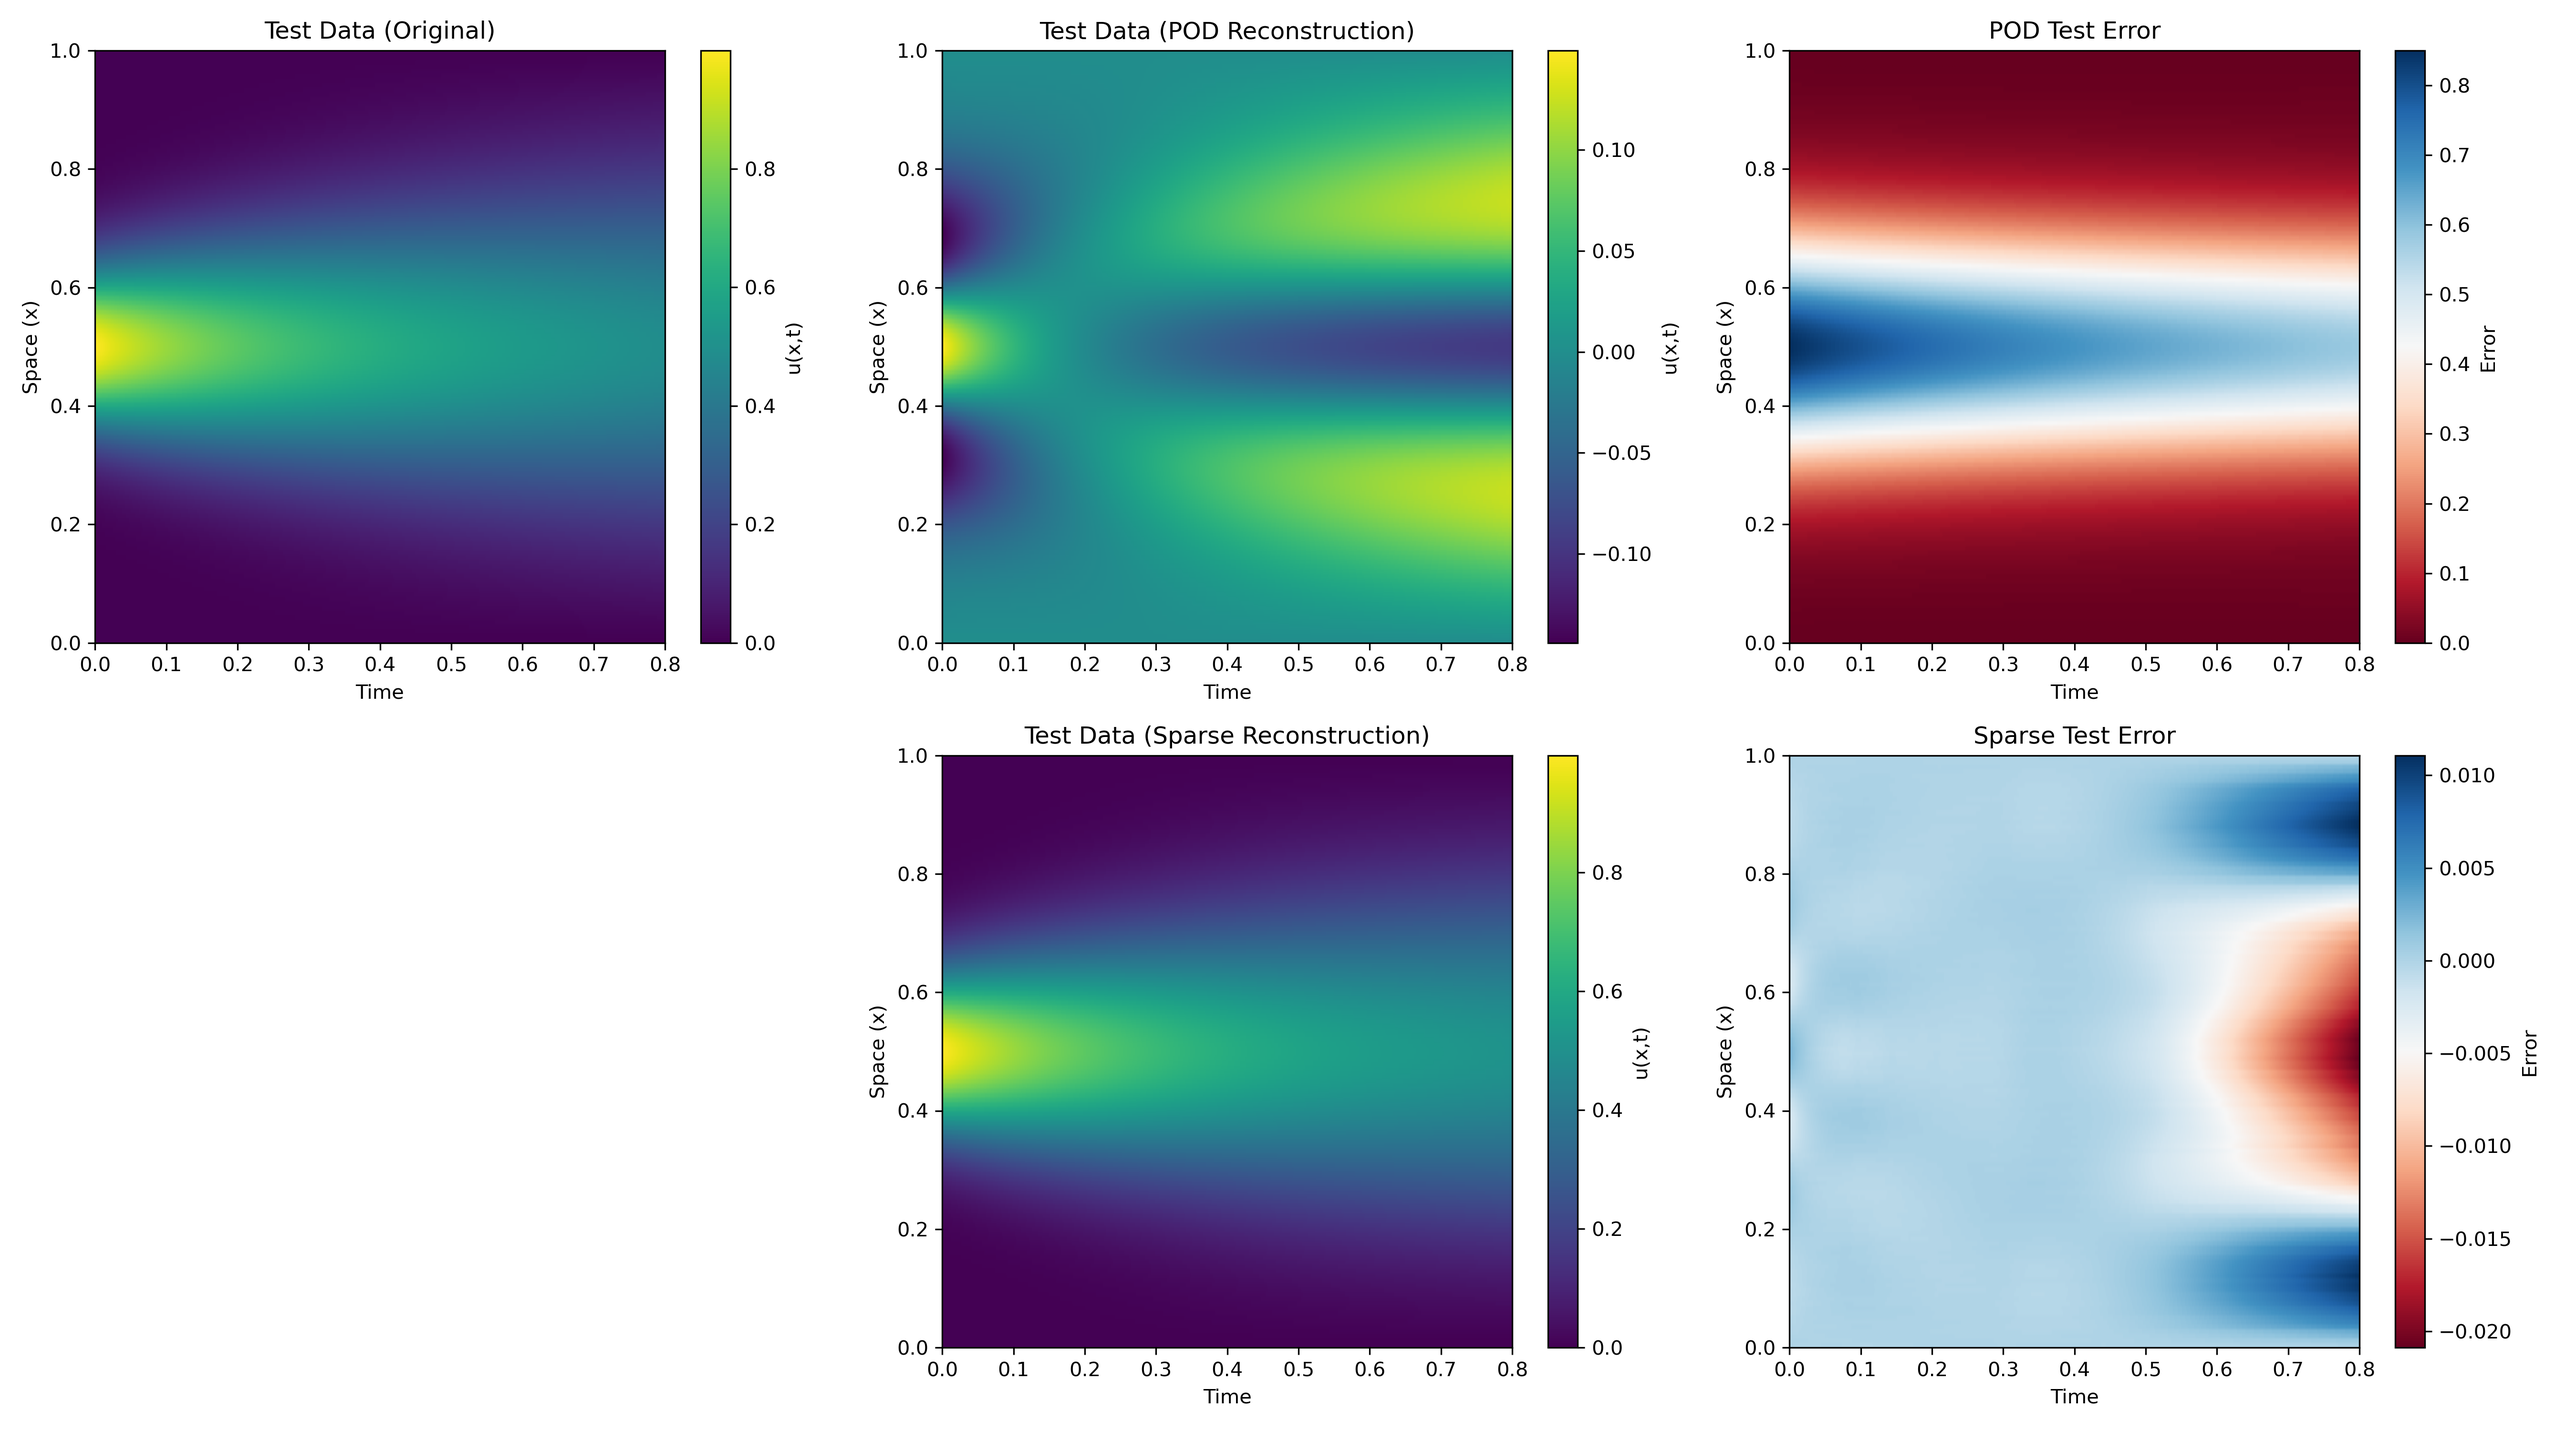
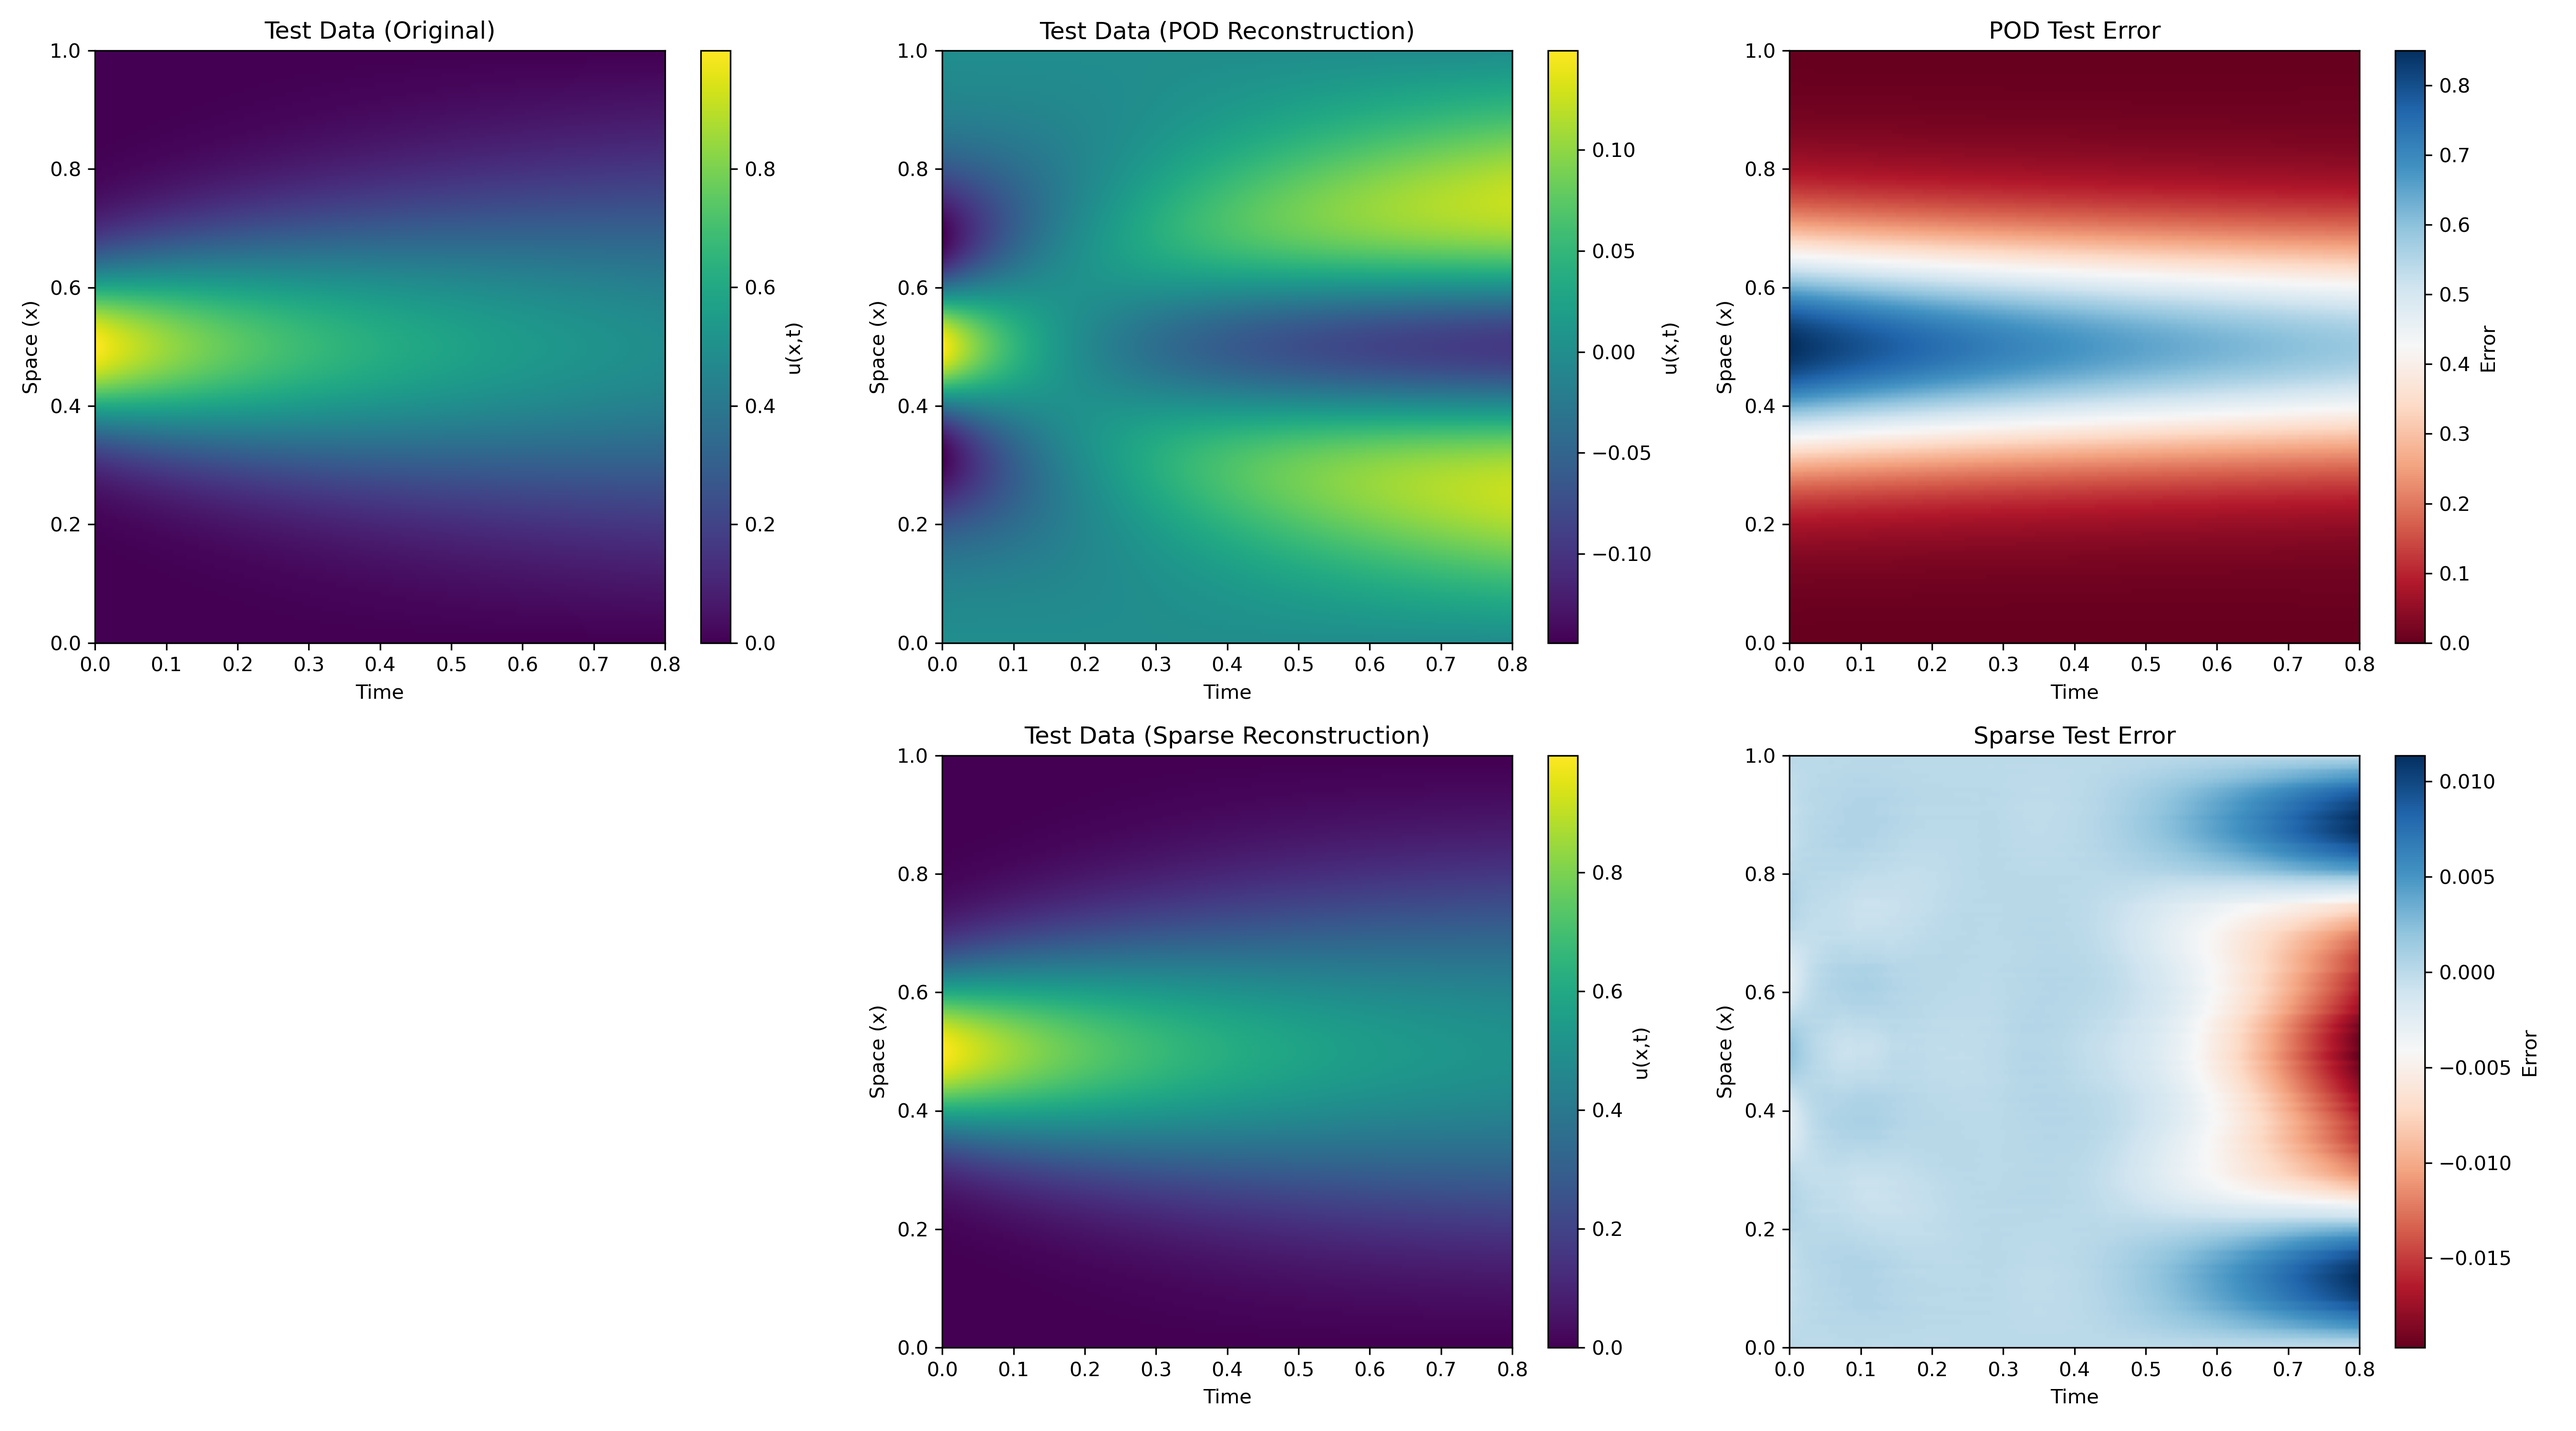
update results for heat1d

diff --git a/src/sparsemodesnet/driver.py b/src/sparsemodesnet/driver.py
@@ -119,6 +119,7 @@ def run_sparsemodesnet_with_lambda_selection(X_np: np.ndarray,
                                              # new: stopping criterion for path
                                              stop_method: str = 'aic',
                                              aic_alpha: float = 2.0,
+                                             K_max: int = None,  # max modes for constraint
                                              # common:
                                              lr: float = 1e-3,
                                              batch_size: int = 16,
@@ -165,7 +166,8 @@ def run_sparsemodesnet_with_lambda_selection(X_np: np.ndarray,
             lam_star, k_star, err_star = pick_aic(path_history_cv, n_samples, aic_alpha)
             print(f"[CV-AIC, α={aic_alpha:.1e}] Picked λ={lam_star:.3e}, k={k_star}, err={err_star:.6e}")
         elif stop_method == 'constraint':
-            K_max = s // 2
+            if K_max is None:
+                K_max = s // 2
             lam_star, k_star, err_star = pick_max_modes(path_history_cv, K_max)
             print(f"[CV-Constraint] Picked λ={lam_star:.3e}, k={k_star}, err={err_star:.6e}")
         else:
@@ -195,7 +197,8 @@ def run_sparsemodesnet_with_lambda_selection(X_np: np.ndarray,
             lam_star, k_star, err_star = pick_aic(path_history_ss, n_samples, aic_alpha)
             print(f"[SS-AIC, α={aic_alpha:.2e}] Picked λ={lam_star:.3e}, k={k_star}, err={err_star:.6e}")
         elif stop_method == 'constraint':
-            K_max = s // 2
+            if K_max is None:
+                K_max = s // 2
             lam_star, k_star, err_star = pick_max_modes(path_history_ss, K_max)
             print(f"[SS-Constraint] Picked λ={lam_star:.3e}, k={k_star}, err={err_star:.6e}")
         else:
@@ -225,7 +228,8 @@ def run_sparsemodesnet_with_lambda_selection(X_np: np.ndarray,
             lam_star, k_star, err_star = pick_aic(path_history, n_samples, aic_alpha)
             print(f"[Path-AIC, α={aic_alpha:.2e}] Picked λ={lam_star:.3e}, k={k_star}, err={err_star:.6e}")
         elif stop_method == 'constraint':
-            K_max = s // 2
+            if K_max is None:
+                K_max = s // 2
             lam_star, k_star, err_star = pick_max_modes(path_history, K_max)
             print(f"[Path-Constraint] Picked λ={lam_star:.3e}, k={k_star}, err={err_star:.6e}")
         else:

diff --git a/experiments/heat1d.py b/experiments/heat1d.py
@@ -26,7 +26,7 @@ if __name__ == "__main__":
     lambda_method = 'stability'  # 'path', 'cv', or 'stability'
     
     # Stopping criterion for the regularization path
-    stop_method = 'constraint'
+    stop_method = 'aic'
 
     # Common hyperparameters
     hidden_units_heat = [128, 8256]
@@ -77,7 +77,8 @@ if __name__ == "__main__":
         pi_thresh       = 0.7,          # threshold for stability
         num_epochs_sub  = 80,           # epochs per subsample for stability
         stop_method     = stop_method,
-        aic_alpha       = 0.5,          # significance level for AIC
+        aic_alpha       = 0.1,          # significance level for AIC
+        K_max           = 10,           # max modes for constraint stopping
         lr              = 1e-3,
         optimizer       = 'Adam',
         batch_size      = 32,
